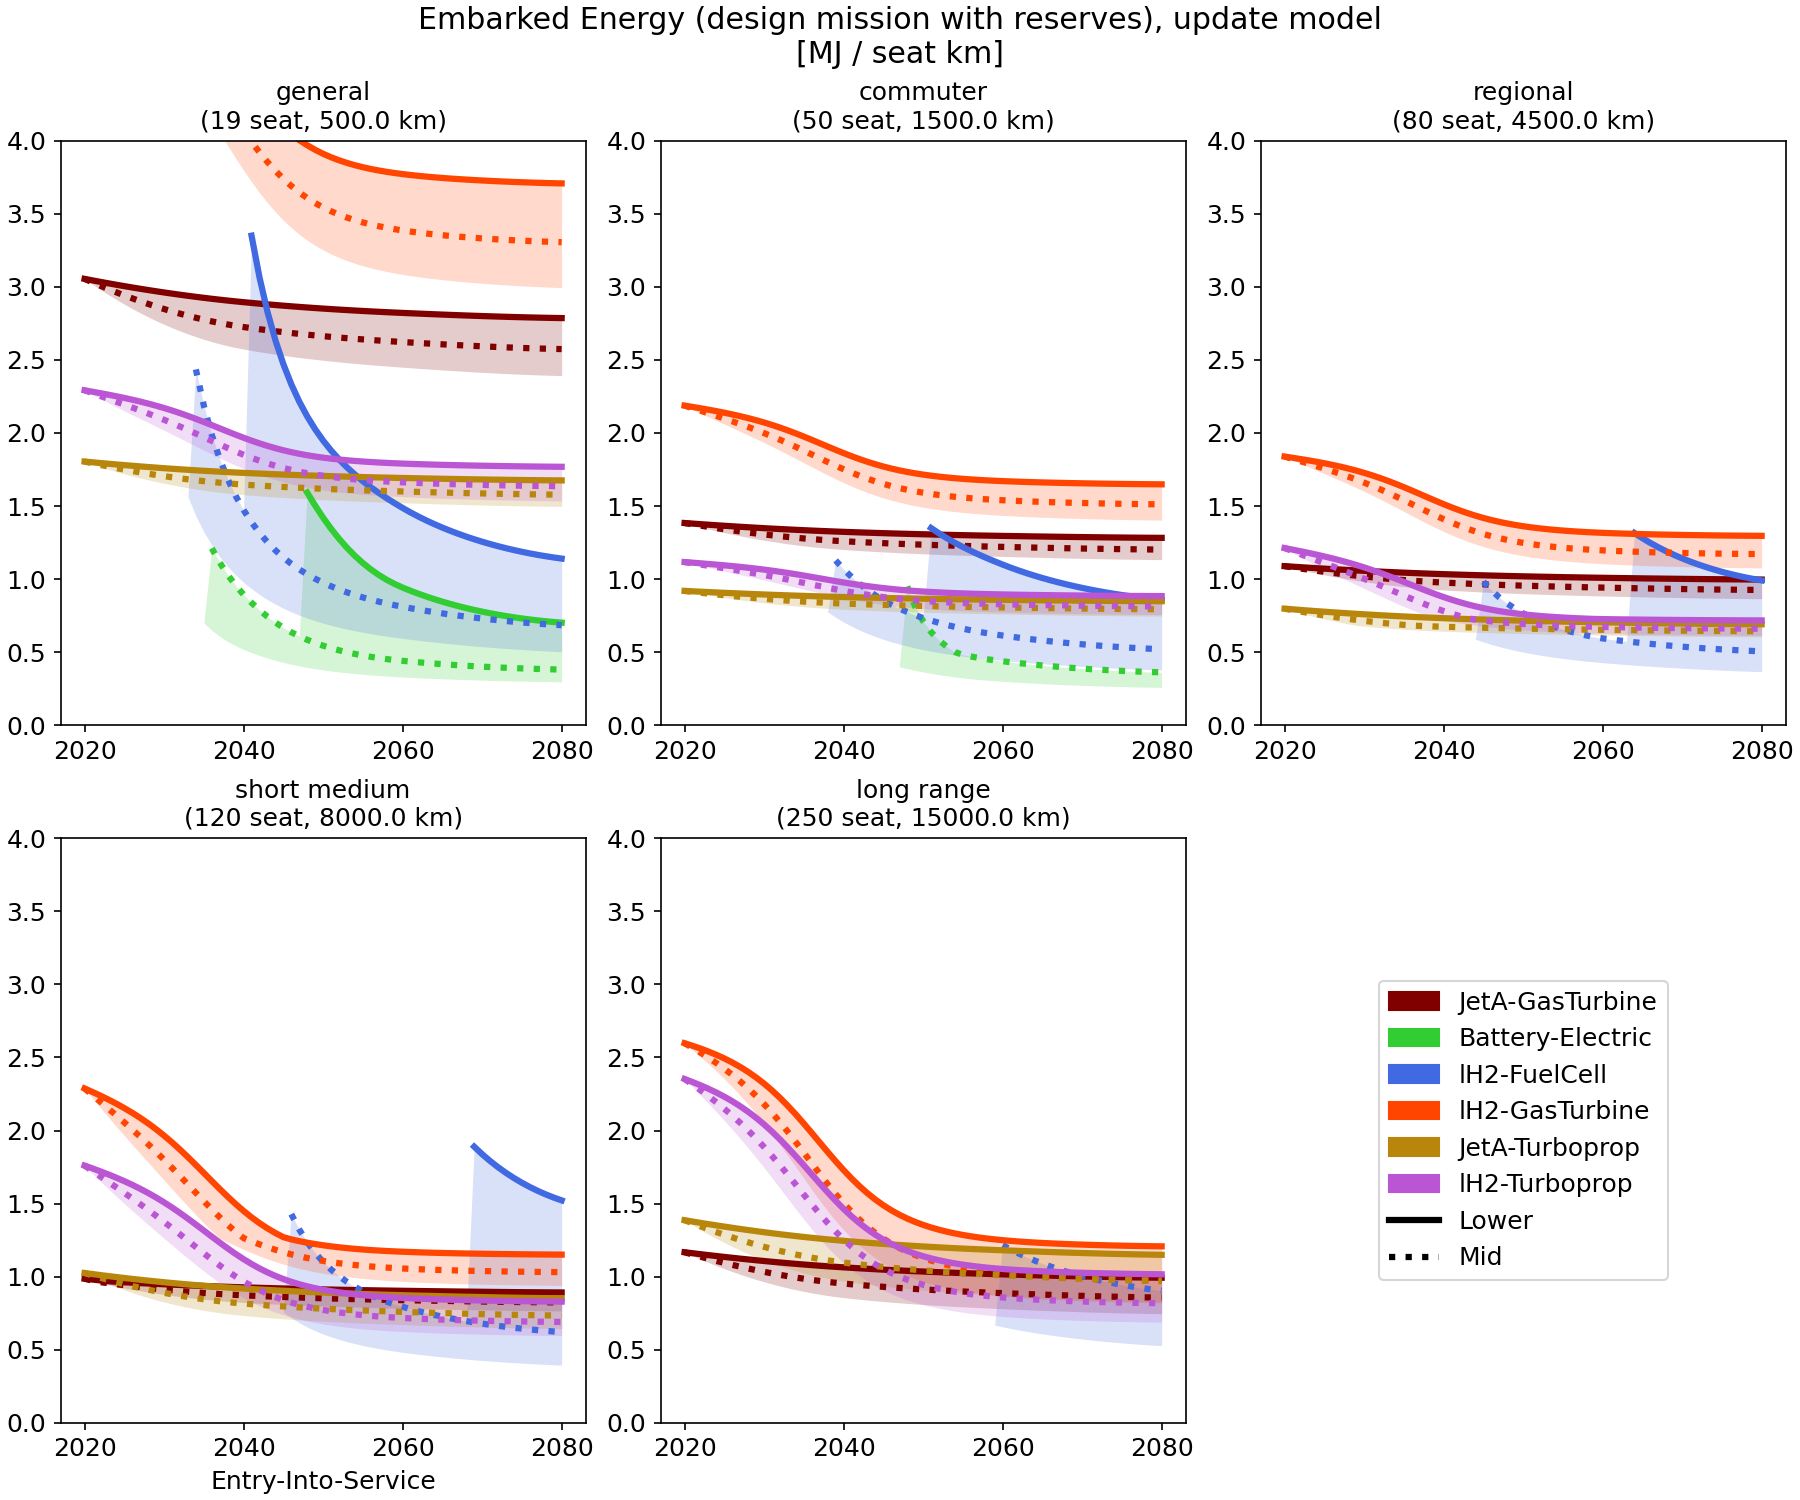
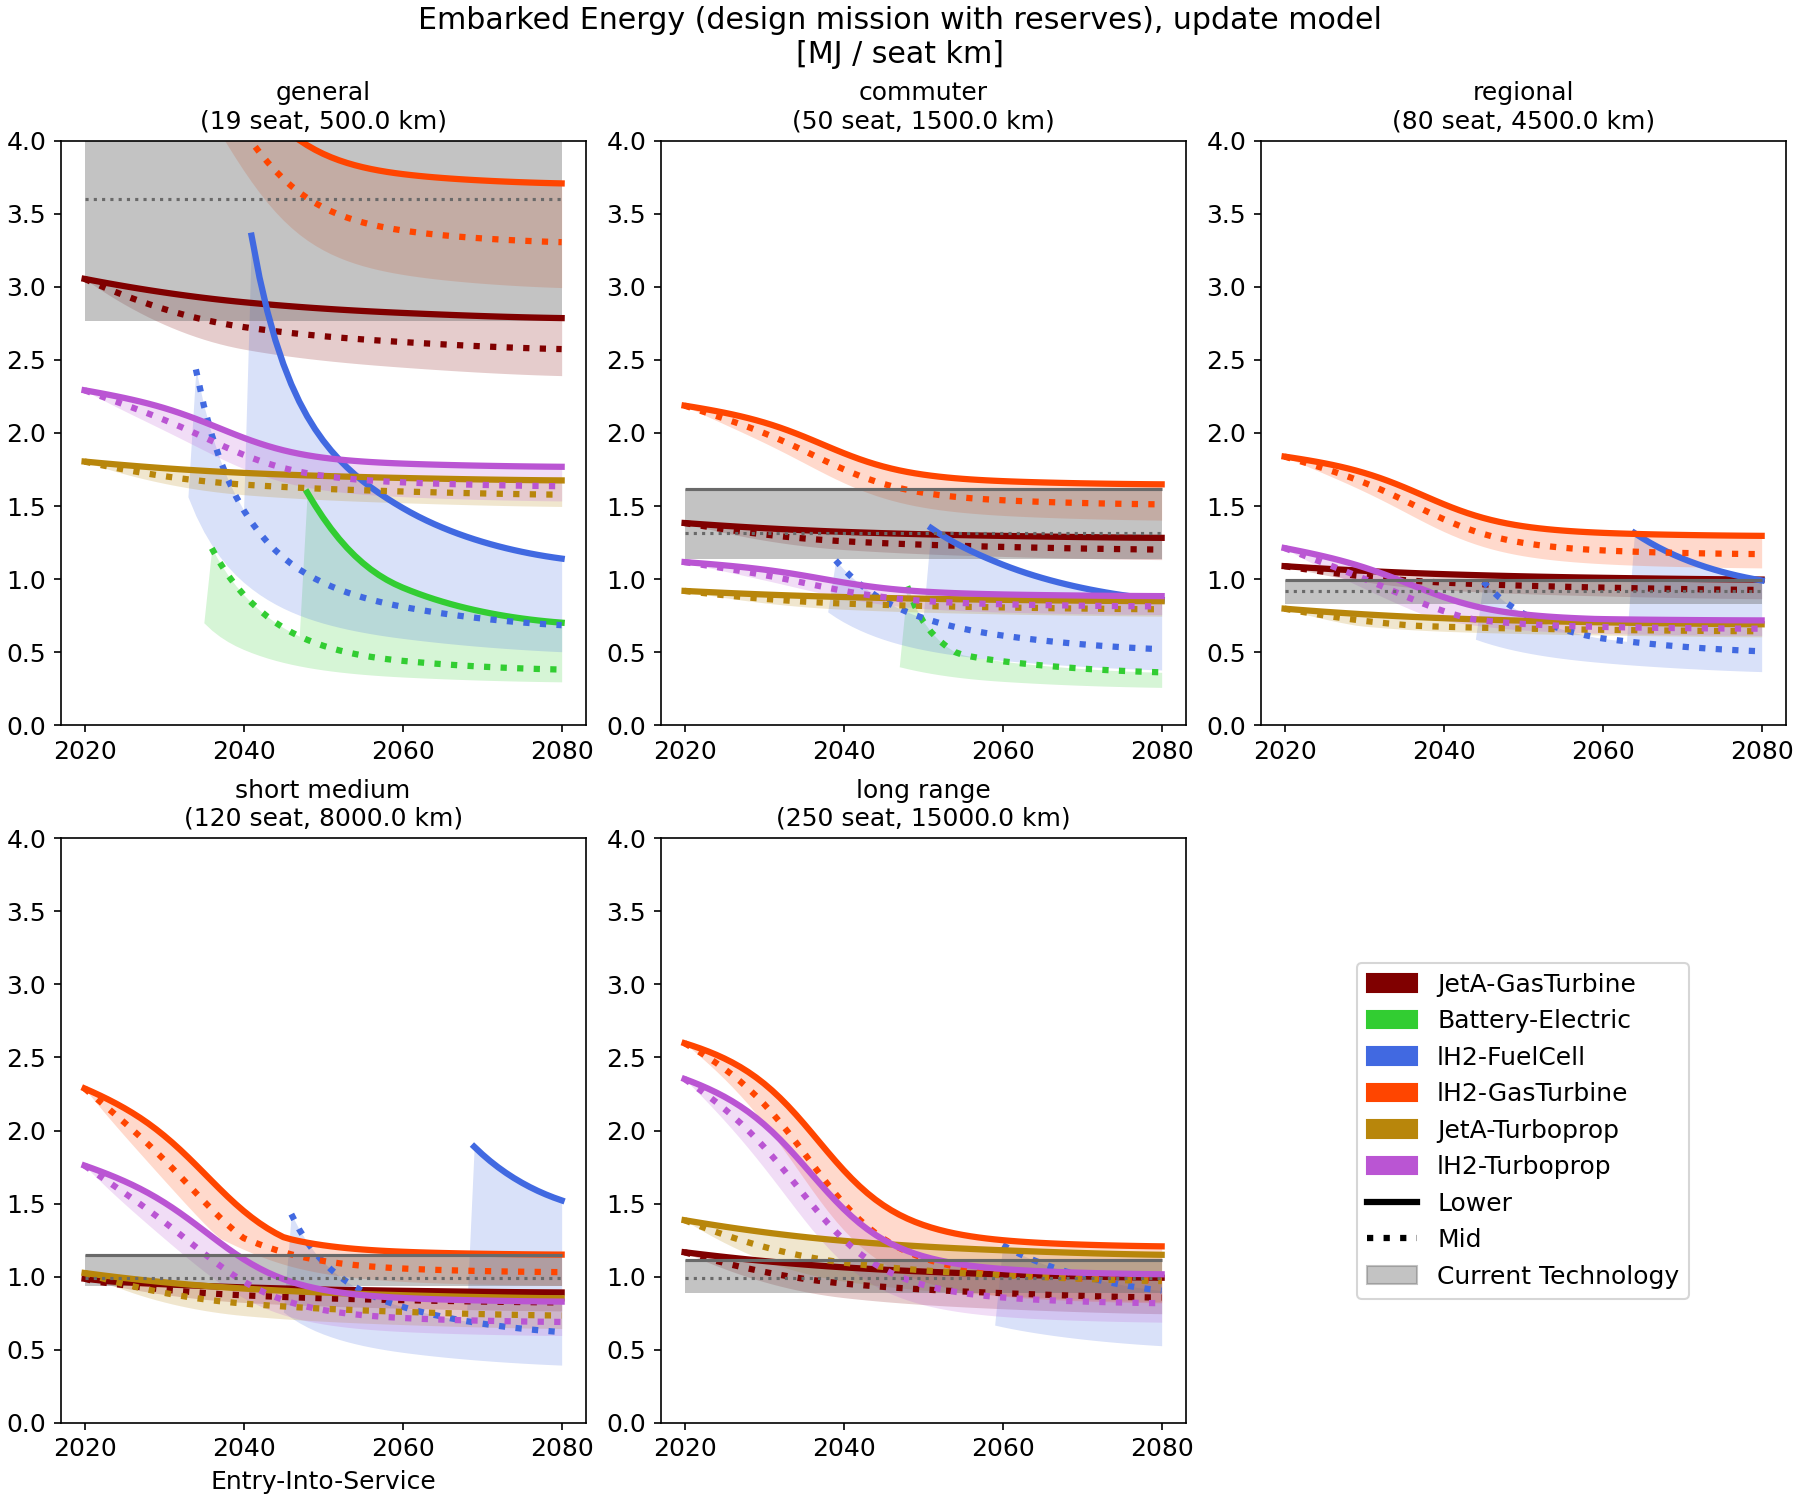
Add current fleet to embarked energy, battery-electric to efficiency
Claude-Session: https://claude.ai/code/session_01Hw29sAYarRQ5FySDmhvs7g

diff --git a/docs/examples/models/aircraft/plot_prospective_aircraft_update.py b/docs/examples/models/aircraft/plot_prospective_aircraft_update.py
@@ -585,6 +585,14 @@ def design_sweep(category, architecture, tech_idx):
                 result["max_power"]
             )
             outputs["max_unit_power"] = gam.max_unit_power
+        if electric and not hydrogen:
+            # efficiency at the reference power per propulsor, which does not
+            # require the design to close
+            outputs["open_propulsion_efficiency"] = gam.get_emotor_eff(
+                power_system["energy_type"],
+                power_system["thruster_type"],
+                gam.reference_unit_power,
+            )
         if electric and hydrogen:
             outputs["fuel_cell_efficiency"] = gam.fuel_cell_mission_efficiency(
                 result["max_power"]
@@ -631,8 +639,13 @@ def plot_architecture(ax, curves, color):
     ax.plot(years, curves[1], color=color, linestyle=":", linewidth=3)
 
 
-def market_figure(title, metric, architectures=tuple(propulsion_colors), ymax=None):
-    """One panel per market, one band per architecture, versus EIS."""
+def market_figure(
+    title, metric, architectures=tuple(propulsion_colors), ymax=None, unmasked=()
+):
+    """One panel per market, one band per architecture, versus EIS.
+
+    The architectures of ``unmasked`` are shown even where their design does not close.
+    """
     fig, axes = subplots(2, 3, layout="constrained", figsize=(12, 10))
     fig.suptitle(title, fontsize="x-large")
     for ax, category in zip(axes.flat, categories_mission):
@@ -642,7 +655,8 @@ def market_figure(title, metric, architectures=tuple(propulsion_colors), ymax=No
             curves = []
             for tech_idx in range(3):
                 outputs = designs[category, architecture, tech_idx]
-                curves.append(masked(metric(outputs, category), outputs["feasible"]))
+                feasible = True if architecture in unmasked else outputs["feasible"]
+                curves.append(masked(metric(outputs, category), feasible))
             plot_architecture(ax, curves, propulsion_colors[architecture])
         ax.set_title(
             f"{category.replace('_', ' ')}\n({seat} seat, {max_range} km)",
@@ -719,20 +733,40 @@ fig5.savefig("./aircraft_update_prospective_mass.png", dpi=150)
 # efficiency is the ratio of the thrust power to the power drawn from the energy
 # carrier at cruise: thermal, propulsive and propeller or fan efficiencies for
 # thermal engines, and fuel cell, electric chain and propeller or fan efficiencies
-# for electric aircraft.
+# for electric aircraft. Battery-electric aircraft are shown at the reference power
+# per propulsor (1 MW), also where their design does not close.
 
 fig6, axes6 = market_figure(
     "Embarked Energy (design mission with reserves), update model\n[MJ / seat km]",
     lambda outputs, category: 1e-3 * outputs["total_energy"] / seat_km(category),
     ymax=4.0,
 )
-market_legend(axes6)
+# Current aircraft: energy per seat-km of the 2019 fleet, scaled by the ratio of the
+# embarked energy to the mission energy (reserves) of a present-day kerosene design.
+for ax, category in zip(axes6.flat, categories_mission):
+    jet = designs[category, "JetA-GasTurbine", 1]
+    reserves = float(
+        jet["total_energy"][0] / (jet["enrg_consumption"][0] * seat_km(category))
+    )
+    low, mid, high = (reserves * value for value in category_conso[category])
+    ax.hlines(low, years[0], years[-1], colors="dimgray", lw=1.5)
+    ax.hlines(mid, years[0], years[-1], colors="dimgray", linestyles=":", lw=1.5)
+    ax.fill_between(
+        [years[0], years[-1]], [low] * 2, [high] * 2, alpha=0.4, color="dimgray", lw=0
+    )
+market_legend(
+    axes6, extra=[Patch(color="dimgray", alpha=0.4, label="Current Technology")]
+)
 fig6.savefig("./aircraft_update_embarked_energy.png", dpi=150)
 
 fig7, axes7 = market_figure(
     "Overall Propulsion Efficiency at cruise, update model\n[%]",
-    lambda outputs, category: 100.0 * outputs["propulsion_system_efficiency"],
-    ymax=70.0,
+    lambda outputs, category: 100.0
+    * outputs.get(
+        "open_propulsion_efficiency", outputs["propulsion_system_efficiency"]
+    ),
+    ymax=100.0,
+    unmasked=("Battery-Electric",),
 )
 market_legend(axes7)
 fig7.savefig("./aircraft_update_propulsion_efficiency.png", dpi=150)

diff --git a/docs/update/aircraft_design.md b/docs/update/aircraft_design.md
@@ -276,7 +276,8 @@ Compared with the main paper:
 
 Energy embarked per seat and kilometre (energy of the design mission, including
 reserves, over seats times design range) of prospective aircraft, with the same
-conventions.
+conventions. The grey band shows the 2019 fleet, its energy per seat-km scaled by the
+reserves of a present-day kerosene design.
 ```
 
 ```{figure} figures/aircraft_update_propulsion_efficiency.png
@@ -284,7 +285,8 @@ conventions.
 :width: 100%
 
 Overall efficiency of the propulsion system (from the stored energy to the
-propulsive power) of prospective aircraft, with the same conventions.
+propulsive power) of prospective aircraft, with the same conventions. Battery-electric
+aircraft are shown at 1 MW per propulsor, also where their design does not close.
 ```
 
 ```{figure} figures/aircraft_update_tank_gi_per_market.png
